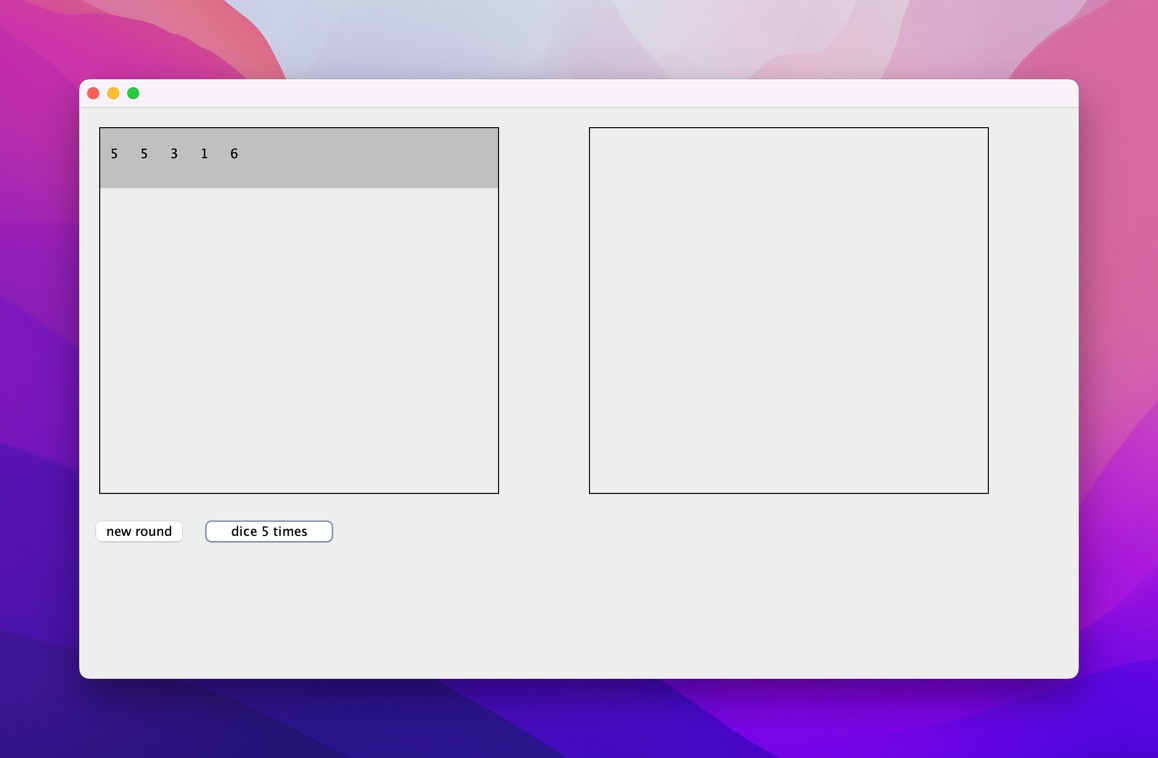
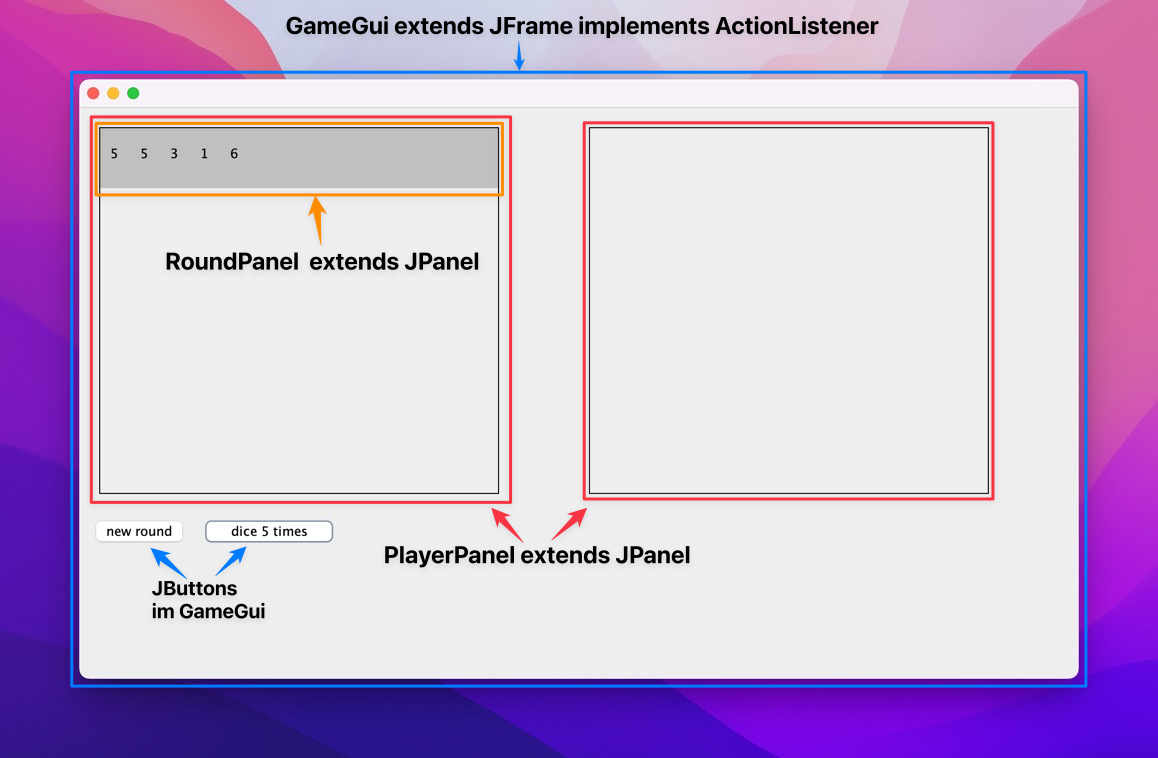
Link to PlayerPanel

diff --git a/docs/aufgaben-swing/player-panel.md b/docs/aufgaben-swing/player-panel.md
@@ -4,12 +4,20 @@ sidebar_position: 10
 
 # 10. PlayerPanel
 
-Hier gibt es nun noch ein JPanel Beispiel welches es durch folgende Mehtoden ermöglicht von aussen die neue Runden zu erstellen und auch die Würfelwerte der aktuellen Runde zu setzen. 
+Hier gibt es nun noch ein JPanel Beispiel welches es durch folgende Methoden ermöglicht von aussen die neue Runden zu erstellen und auch die Würfelwerte der aktuellen Runde zu setzen. 
 
 - `playerPanel.startNewRound()`
 - `playerPanel.setDiceValue(index, value)`
 
-So ist es möglich für zwei Spieler <u>je eine eigene Instanz</u> der gleichen Klasse `PlayerPanel` zu erstellen. So können nun die Runden und Punke dargestellt werden.
+So ist es möglich für zwei Spieler <u>je eine eigene Instanz</u> der gleichen Klasse `PlayerPanel` zu erstellen. Dies ermöglicht die Darstellung der Runden und den Punkteverlauf.
+
+:::tip `JPanel` wie `<div></div>` in HTML
+
+- Ein `JPanel` ist ein Container, der Swing Componenten Gruppieren kann. 
+- `JPanel`'s können beliebig geschachtelt werden.
+- Sie entsprechen damit dem `<div></div>` Tag in HTML.
+
+:::
 
 ![](../img/playerpanel.png)
 

diff --git a/docs/lektionen/woche-07.md b/docs/lektionen/woche-07.md
@@ -13,3 +13,4 @@ sidebar_position: 7
 ## :pencil: Aufgaben
 
 - :alembic: Arbeiten am [Projekt](../beurteilungen/lb2.md)
+- :superhero: [PlayerPanel](../aufgaben-swing/player-panel.md) 
